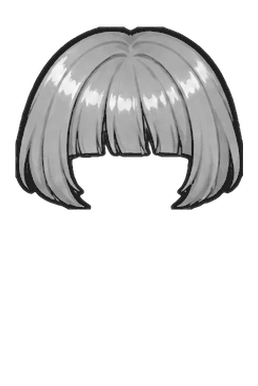
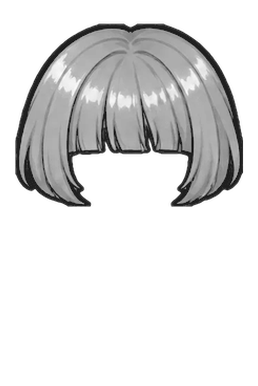
헤어: 원본에서 다시 (깎인 머리 복구), 귀는 몸에서 떼어 머리 위에 따로 그림
Claude-Session: https://claude.ai/code/session_015VxnKS3baGbwJXJNNp74ix

Changed region(s): [[0.062, 0.0622, 0.9612, 0.5596]]

diff --git a/avatar.js b/avatar.js
@@ -6,7 +6,8 @@ const AV_SKIN = [["#fff0f1"], ["#ffddd7"], ["#efc7b8"], ["#cea095"], ["#906a68"]
 const AV_HAIR = [["#6b4a3f"], ["#3a3a46"], ["#ffe066"], ["#ffb347"], ["#ff6b6b"], ["#ff9ccf"], ["#c39bff"], ["#6fa8ff"], ["#7fe3ff"], ["#6ee7b7"], ["#9be36b"], ["#eef1f6"]];
 // 볼색: 볼터치 그림(av/cheek-N.png, av/cheek.py로 만듦)은 모양만 있어서 이 색을 곱해서 칠함. 주근깨(av/cheek-N-f.png)는 그림 색 그대로
 const AV_CHEEK = [["#ff8fa3"], ["#ffab91"], ["#ff5c8a"], ["#ff6b6b"], ["#ffb36b"], ["#c9a0ff"]];
-const AV_FRECK = [2, 3]; // 주근깨가 같이 있는 볼터치 번호
+const AV_FRECK = [2, 3];
+const AV_EAR = new Set([0, 1, 4, 5, 6, 7, 9, 10]); // 귀가 보이는 머리: 몸에서 뗀 귀(av/ear-피부.png)를 머리 위에 그림 (av/hairfix.py) // 주근깨가 같이 있는 볼터치 번호
 const AV_NAMES = {
   hair: ["부스스 짧은 머리", "레이어드 단발", "일자 단발", "웨이브 단발", "짧은 스포츠머리", "뾰족 머리", "뽀글 머리", "똥머리", "긴 생머리", "양 똥머리", "양 갈래 땋은 머리", "긴 웨이브"],
   top: ["세일러 블라우스", "크림 후드티", "검정 재킷", "분홍 가디건", "고양이 후드티", "흰 셔츠", "야구 점퍼", "곰돌이 니트", "검정 프릴 블라우스", "줄무늬 티", "하얀 패딩", "빨간 망토", "카키 야상", "멜빵 원피스", "검정 후드티", "레이스 블라우스"],
@@ -38,7 +39,7 @@ const avWear = (wear = {}) => ({ ...AV_REQ, ...Object.fromEntries(Object.entries
 // av = { skin, hc(머리색 번호), cc(볼색 번호) }, wear = { pet, cheek, eye, mouth, hair, top, bottom } → 겹친 그림 (div 하나)
 // 처음 그릴 때 모든 그림을 미리 받아 풀어 둠: 색·옷을 바꿀 때 새 <img>가 잠깐 비었다가 뜨지 않게 (Image를 잡아 둬야 풀린 채로 남음)
 let avPre = null;
-const avPreload = () => avPre ||= [...AV_SKIN.map((_, i) => `av/base-${i}.png`), ...AV_ITEMS.filter(it => it.id !== "pet-0").map(it => it.img), ...AV_ITEMS.filter(it => it.slot === "hair").map(it => it.img.replace(".png", "-g.png")), ...AV_FRECK.map(i => `av/cheek-${i}-f.png`)]
+const avPreload = () => avPre ||= [...AV_SKIN.map((_, i) => `av/base-${i}.png`), ...AV_ITEMS.filter(it => it.id !== "pet-0").map(it => it.img), ...AV_ITEMS.filter(it => it.slot === "hair").map(it => it.img.replace(".png", "-g.png")), ...AV_FRECK.map(i => `av/cheek-${i}-f.png`), ...AV_SKIN.map((_, i) => `av/ear-${i}.png`)]
   .map(s => { const im = new Image(); im.src = s; im.decode?.().catch(() => {}); return im; });
 function avPic(av, wear = {}) {
   avPreload();
@@ -48,5 +49,5 @@ function avPic(av, wear = {}) {
   const ck = avItem(w.cheek).img, cn = +w.cheek.split("-")[1];
   const cheekL = !cn ? "" : `<i style="background:${AV_CHEEK[cc][0]};-webkit-mask-image:url(${ck});mask-image:url(${ck})"></i>` + (AV_FRECK.includes(cn) ? img(ck.replace(".png", "-f.png")) : "");
   // .avp = 펫 칸(378×426), 그 안의 .avb = 아바타 칸(258×386, 위 40·왼쪽 60 띄움). 펫 그림은 펫 칸 크기
-  return `<div class="avp" aria-hidden="true"><div class="avb">${img(`av/base-${skin}.png`)}${cheekL}${[avItem(w.eye).img, avItem(w.mouth).img, avItem(w.bottom).img, avItem(w.top).img].map(img).join("")}${hairL}</div>${w.pet !== "pet-0" ? img(avItem(w.pet).img) : ""}</div>`;
+  return `<div class="avp" aria-hidden="true"><div class="avb">${img(`av/base-${skin}.png`)}${cheekL}${[avItem(w.eye).img, avItem(w.mouth).img, avItem(w.bottom).img, avItem(w.top).img].map(img).join("")}${hairL}${AV_EAR.has(+w.hair.split("-")[1]) ? img(`av/ear-${skin}.png`) : ""}</div>${w.pet !== "pet-0" ? img(avItem(w.pet).img) : ""}</div>`;
 }

diff --git a/av/hairfix.py b/av/hairfix.py
@@ -1,15 +1,20 @@
-# 헤어 손질: 조금 키우고 내림. 귀가 보이는 머리는 예전 귀 구멍 테두리를 머리카락으로 채우고 몸 귀 자리만 비움 (귀가 둘로 보이지 않게)
-# python3 hairfix.py 원본폴더 출력폴더   (원본 = 예전 hair-N.png, hair-N-g.png)
+# 헤어 손질: 조금 키우고 살짝 내림 (원본 = 예전 hair-N.png, hair-N-g.png). 귀가 보이는 머리는 예전 귀 구멍을 머리카락으로 메움
+# 귀는 ear-0~4.png(몸에서 뗀 귀)를 머리 위에 따로 그림 (avatar.js AV_EAR) → 머리를 키워도 귀는 늘 하나, 제자리
+# python3 hairfix.py 원본폴더 출력폴더
 from PIL import Image; import numpy as np; from scipy import ndimage
 import sys
 SRC,OUT=sys.argv[1],sys.argv[2]
-SHOWEAR={0,1,4,5,6,7,9,10}                      # 귀가 보이는 머리 (나머지는 머리카락이 귀를 덮음)
-W,H=258,386; K=1.05; CXY=(129,130); DOWN=3      # 키우는 배율·중심, 내리는 px
+SHOWEAR={0,1,4,5,6,7,9,10}; LOOP={4}                      # 귀가 보이는 머리 (avatar.js AV_EAR와 같게)
+W,H=258,386; K=1.05; CXY=(129,165); DOWN=2
 yy,xx=np.mgrid[:H,:W]
-body=np.array(Image.open('base-0.png'))[...,3]>128
-ell=((xx-128)/75.5)**2+((yy-140)/78)**2>1          # 머리 동그라미 밖
-ear=body&(yy>=150)&(yy<=199)&((xx<=64)|(xx>=192))&ell  # 몸 귀
-near=ndimage.distance_transform_edt(~ear)<=12
+ell=((xx-128)/75.5)**2+((yy-140)/78)**2>1
+zone=(yy>=146)&(yy<=203)&((xx<=66)|(xx>=190))
+for i in range(5):  # 귀 그림
+  b=np.array(Image.open(f'base-{i}.png')); E=(b[...,3]>128)&zone&ell; E=ndimage.binary_opening(E,iterations=2)  # 귀 덩어리만 (머리 테두리 가는 선 빼고)
+  m=(b[...,3]>0)&zone&ndimage.binary_dilation(E,iterations=3)&(yy>=150)
+  e=b.copy(); e[~m,3]=0; Image.fromarray(e).save(f'{OUT}/ear-{i}.png',optimize=True)
+ear=ndimage.binary_dilation((np.array(Image.open('base-0.png'))[...,3]>128)&zone&ell,iterations=1)
+near=ndimage.distance_transform_edt(~ear)<=14
 def tf(im):
   w,h=round(W*K),round(H*K); big=im.resize((w,h),Image.LANCZOS)
   c=Image.new('RGBA',(W,H)); c.alpha_composite(big,(round(CXY[0]-CXY[0]*K),round(CXY[1]-CXY[1]*K)+DOWN)); return c
@@ -18,15 +23,11 @@ for k in range(12):
   a=np.array(ims[0]).astype(float); A=a[...,3]>128
   hole=ndimage.binary_closing(A,iterations=7)&~A&near
   dark=a[...,:3].max(-1)<90
-  ring=A&dark&(ndimage.distance_transform_edt(~hole)<=6)&near
-  fill=hole|ring
+  fill=hole|(A&dark&(ndimage.distance_transform_edt(~hole)<=8)&near)
   for j,im in enumerate(ims):
     b=np.array(im).astype(float)
-    if k in SHOWEAR:
-      src=A&~dark&~ring
-      _,idx=ndimage.distance_transform_edt(~src,return_indices=True)
+    if k in SHOWEAR and fill.any():
+      src=A&~dark&~fill; _,idx=ndimage.distance_transform_edt(~src,return_indices=True)
       b[fill]=b[idx[0][fill],idx[1][fill]]; b[fill,3]=255
-      b[ear,3]=0
-      b[near&ell&~(A&~dark),3]=0   # 귀 둘레 옛 선·흐린 픽셀
-      M=b[...,3]>0; lab,n=ndimage.label(M); sz=ndimage.sum(M,lab,range(1,n+1)); b[np.isin(lab,1+np.where(sz<60)[0]),3]=0  # 떨어진 부스러기
+    if k in LOOP: b[near&ell&(yy>=146)&(yy<=210),3]=0   # 스포츠머리: 귀를 감싸던 머리 고리를 뺌 (귀는 ear 그림이 덮음)
     Image.fromarray(b.round().clip(0,255).astype(np.uint8)).save(f'{OUT}/hair-{k}{"-g" if j else ""}.png',optimize=True)
